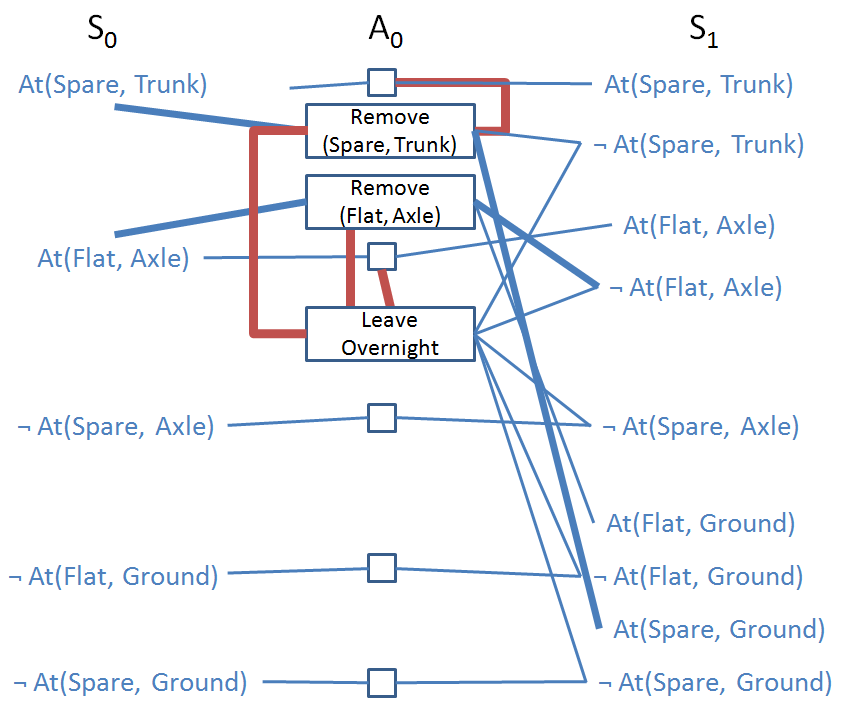
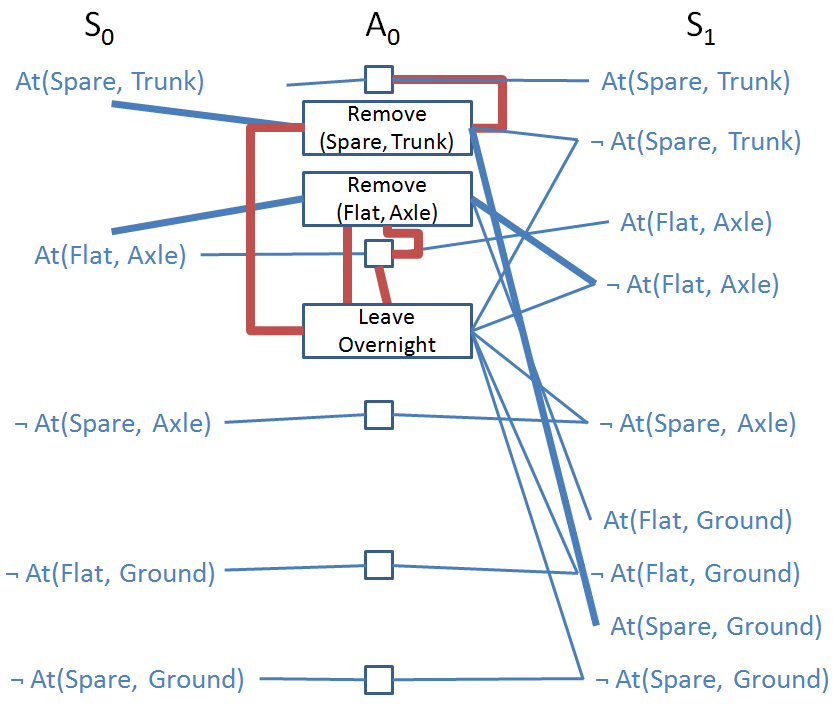
- Working on CS 161 practice final

diff --git a/classes/spring-2014/cs-161/final-practice.html b/classes/spring-2014/cs-161/final-practice.html
@@ -235,9 +235,9 @@
               </div>
               <br/>
               <p>Alright that was a little obnoxious and grueling... so why not aim for more obnoxious and grueling with a planning graph?</p>
-              <p>Your book starts the planning graph for the Tire Changing problem, so why don't we finish it?</p>
+              <p>Your book starts the planning graph for the Tire Changing problem, but doesn't show some mutex connections... why don't we complete them?</p>
               <br/>
-              <p class='example'>Complete the planning graph associated with the tire-changing problem:</p>
+              <p class='example'>Follow the planning graph for the tire changing problem up to State level S1:</p>
 <pre class='prettyprint'>
   ; Constants:
   Flat, Spare, Axle, Trunk, Ground
@@ -311,8 +311,56 @@
                   <img src='../../../assets/images/spring-2014/cs-161/final/final-4.PNG' />
                 </div>
               </div>
+              
+              <br/>
+              <p>How about a couple of nice, easy, conceptual questions after that?</p>
+              <p class='question' name='planning-q7'>Under what condition does the planning graph stop generating new levels?</p>
+              <p class='answer' name='planning-q7'>Two consecutive, identical state levels.</p>
+              <br/>
+              <p class='question' name='planning-q8'>If the planning graph &quot;levels off,&quot; the goal state's fluents exist in the final state level, and they are not mutex, are we guaranteed that a
+                solution exists to the planning problem?</p>
+              <p class='answer' name='planning-q8'>No! We are only guaranteed that a solution does *not* exist if our final state level does *not* contain the goal fluents.</p>
             </div>
             <hr/>
+            
+            
+            <br/>
+            <div id='prob' class='scrollspy-element' scrollspy-title='Probability Calculus'></div>
+            <h1>Probability Calculus</h1>
+            <div>
+              <p>Get your theorems and rules ready kids, it's probability time!</p>
+              <br/>
+              <p class='question' name='prob-q0'>If <strong>conditioning</strong> tells us that <code class='prettyprint'>Pr(A, B) = Pr(A | B) * Pr(B)</code>, then in the general case accounting for
+                evidence E, can we say that <code class='prettyprint'>Pr(A, B | E) = Pr(A | B, E) * Pr(B | E)</code>?</p>
+              <p class='answer' name='prob-q0'>Yes! The property <code class='prettyprint'>Pr(A, B | E) = Pr(A | B, E) * Pr(B | E)</code> is called <strong>the generalized product rule</strong> and is
+                simply an application of the product rule (which is a special case of the chain rule).</p>
+              <br/>
+              <p class='question' name='prob-q1'>Prove the <strong>generalized Bayes Rule</strong> stating: <code class='prettyprint'>[Pr(A | B, E) = Pr(B | A, E) * Pr(A | E)] / Pr(B | E)</code></p>
+              <div class='answer' name='prob-q1'>
+<pre class='prettyprint'>
+    Pr(A | B, E)
+  
+  ; Bayes Conditioning
+  = Pr(A, B, E) / Pr(B, E)
+  
+  ; Re-arranging for clarity
+  = Pr(B, A, E) / Pr(B, E)
+  
+  ; Chain Rule
+  = [Pr(B | A, E) * Pr(A | E) * Pr(E)] / [Pr(B | E) * Pr(E)]
+  
+  ; Pr(E)s cancel out
+  = [Pr(B | A, E) * Pr(A | E)] / [Pr(B | E)]
+  
+  ; QED
+</pre>
+              </div>
+              
+              <br/>
+              
+            </div>
+            <hr/>
+            
             
             <a class='btn btn-default pull-right hidden-print' href='javascript:window.print();'>
               <span class='glyphicon glyphicon-print'></span>
